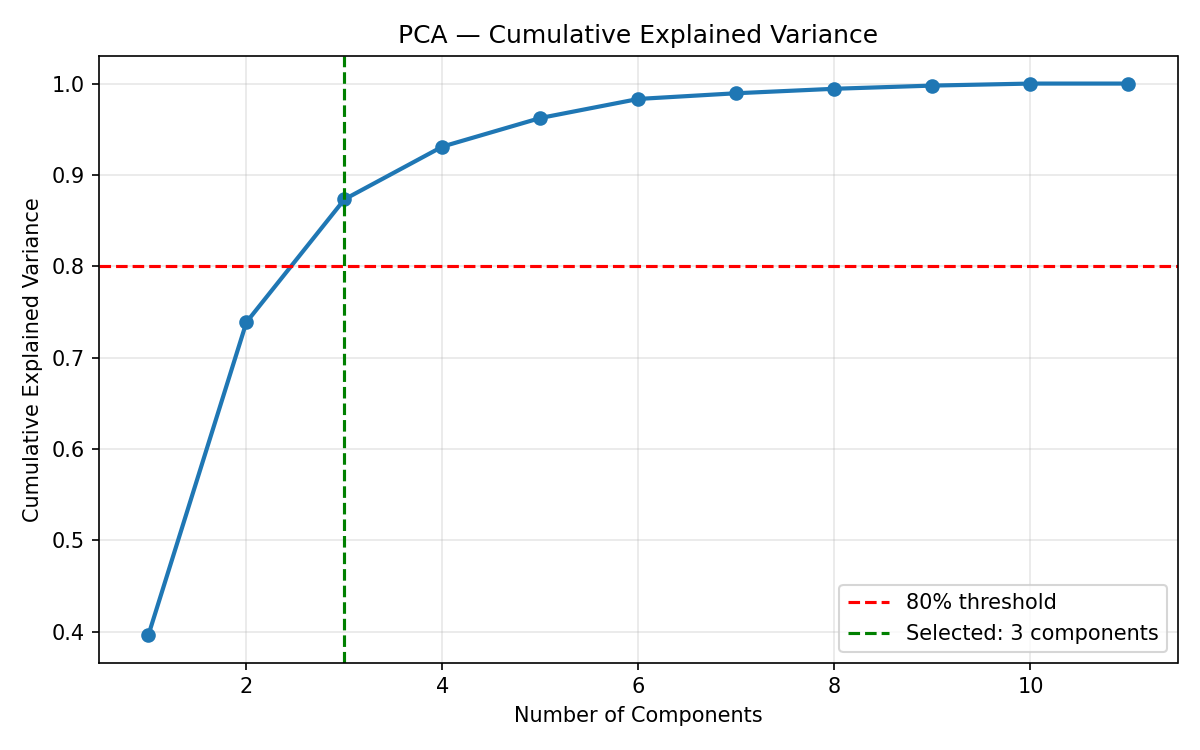
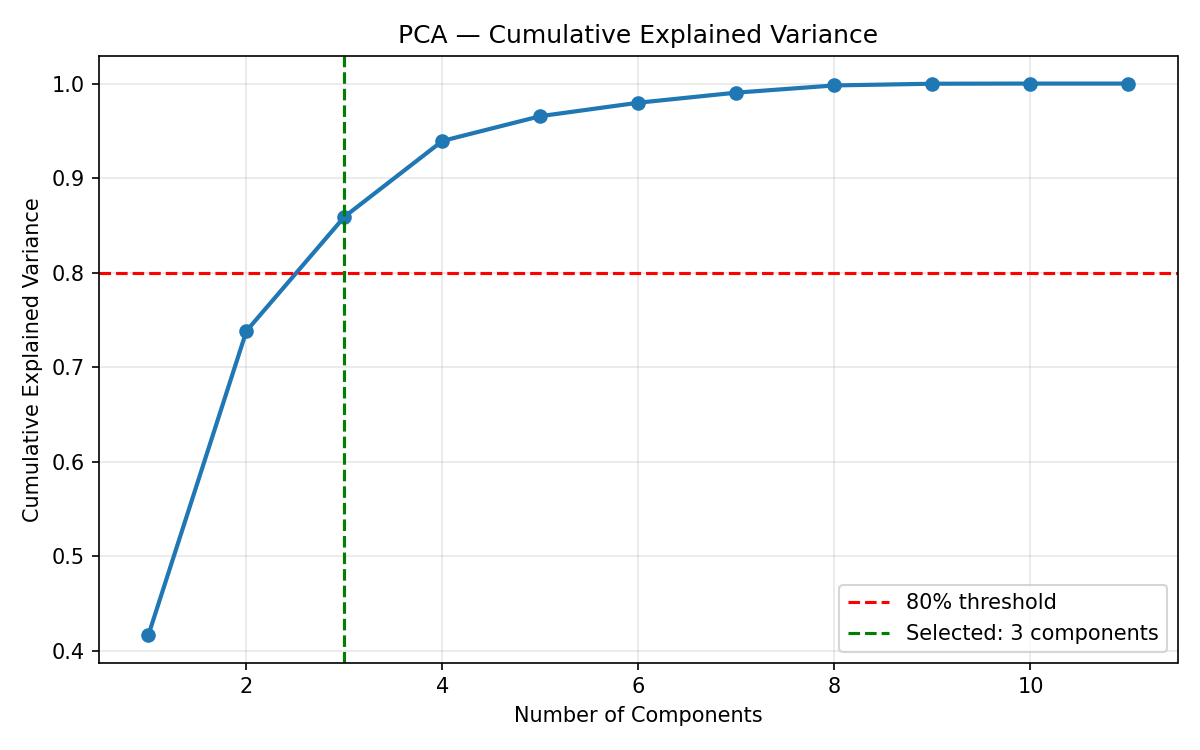
feat(ml/dashboard): change cache TTL, filter K-Means outliers, and update cluster subtitles and figures

diff --git a/src/dashboard/app.py b/src/dashboard/app.py
@@ -57,7 +57,7 @@ st.markdown("""
 # ─────────────────────────────────────────────────────────────
 # Các hàm tải dữ liệu (trực tiếp từ BigQuery DWH)
 # ─────────────────────────────────────────────────────────────
[email redacted]_data(ttl=600)
[email redacted]_data(ttl=10)
 def fetch_stock_dimension():
     client = get_bigquery_client()
     table_id = get_full_table_id("dim_stock")
@@ -66,7 +66,7 @@ def fetch_stock_dimension():
     return df
 
 
[email redacted]_data(ttl=600)
[email redacted]_data(ttl=10)
 def fetch_actual_price_history(stock_key: int, limit: int = 60):
     client = get_bigquery_client()
     price_table = get_full_table_id("fact_price_history")
@@ -90,7 +90,7 @@ def fetch_actual_price_history(stock_key: int, limit: int = 60):
     return df.sort_values("full_date").reset_index(drop=True)
 
 
[email redacted]_data(ttl=600)
[email redacted]_data(ttl=10)
 def fetch_lstm_predictions(stock_key: int):
     client = get_bigquery_client()
     pred_table = get_full_table_id("fact_model_predictions")
@@ -109,7 +109,7 @@ def fetch_lstm_predictions(stock_key: int):
     return df
 
 
[email redacted]_data(ttl=600)
[email redacted]_data(ttl=10)
 def fetch_bank_clusters():
     client = get_bigquery_client()
     cluster_table = get_full_table_id("bank_cluster_assignments")
@@ -138,7 +138,7 @@ def fetch_bank_clusters():
     return df
 
 
[email redacted]_data(ttl=600)
[email redacted]_data(ttl=10)
 def fetch_credit_risk_predictions():
     client = get_bigquery_client()
     pred_table = get_full_table_id("bank_risk_predictions")
@@ -157,7 +157,7 @@ def fetch_credit_risk_predictions():
 
 
 
[email redacted]_data(ttl=600)
[email redacted]_data(ttl=10)
 def fetch_eda_data():
     client = get_bigquery_client()
     perf_table = get_full_table_id("fact_bank_performance")

diff --git a/src/models/train_kmeans.py b/src/models/train_kmeans.py
@@ -317,7 +317,7 @@ def _write_clusters_to_bigquery(
     from google.cloud import bigquery as bq
 
     job_config = bq.LoadJobConfig(
-        write_disposition="WRITE_APPEND",
+        write_disposition="WRITE_TRUNCATE",
     )
 
     job = client.load_table_from_dataframe(